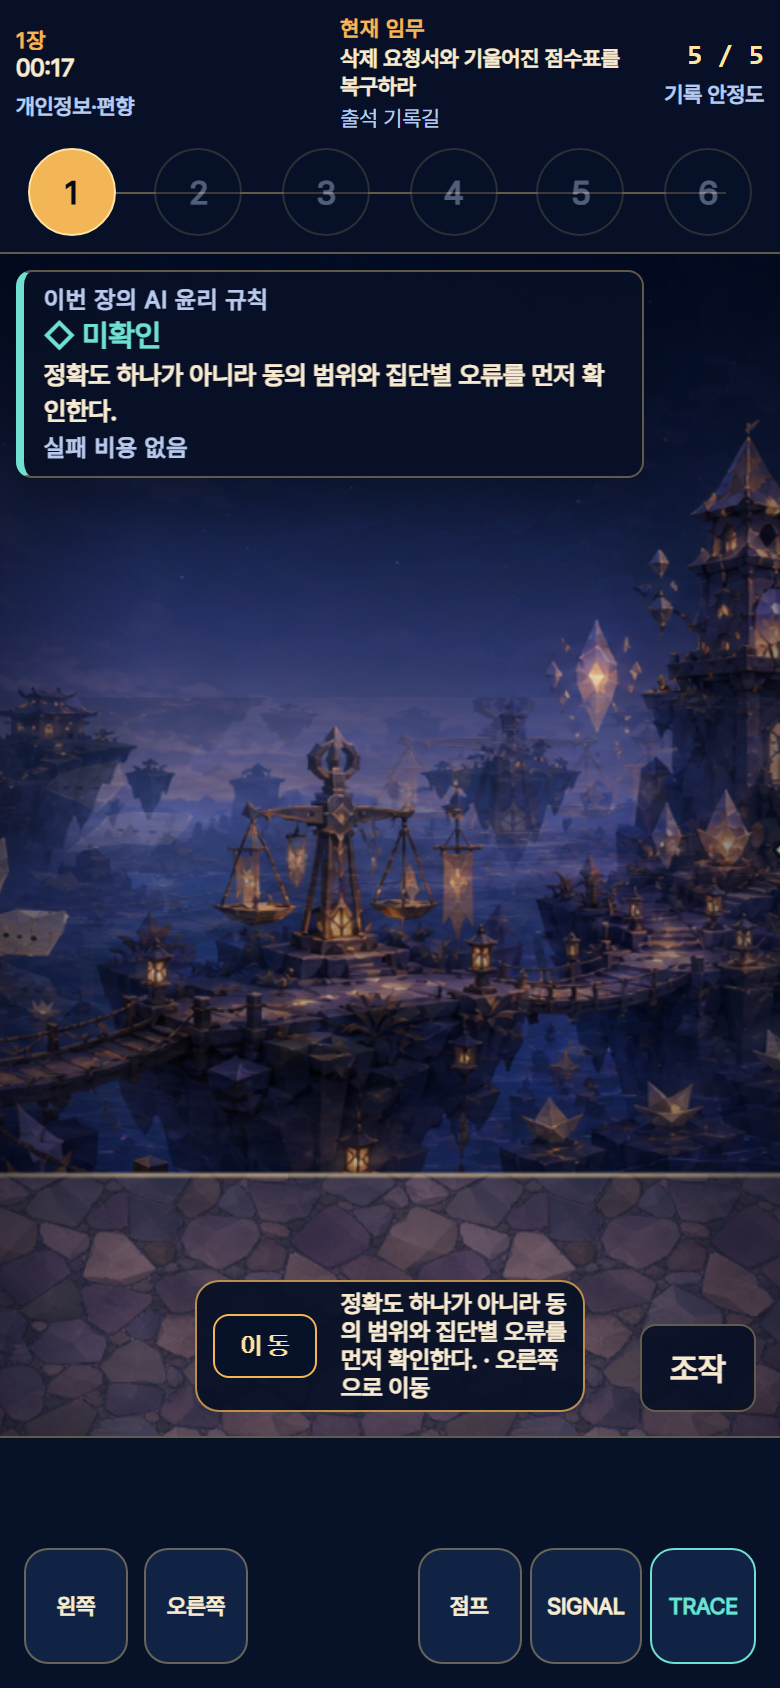
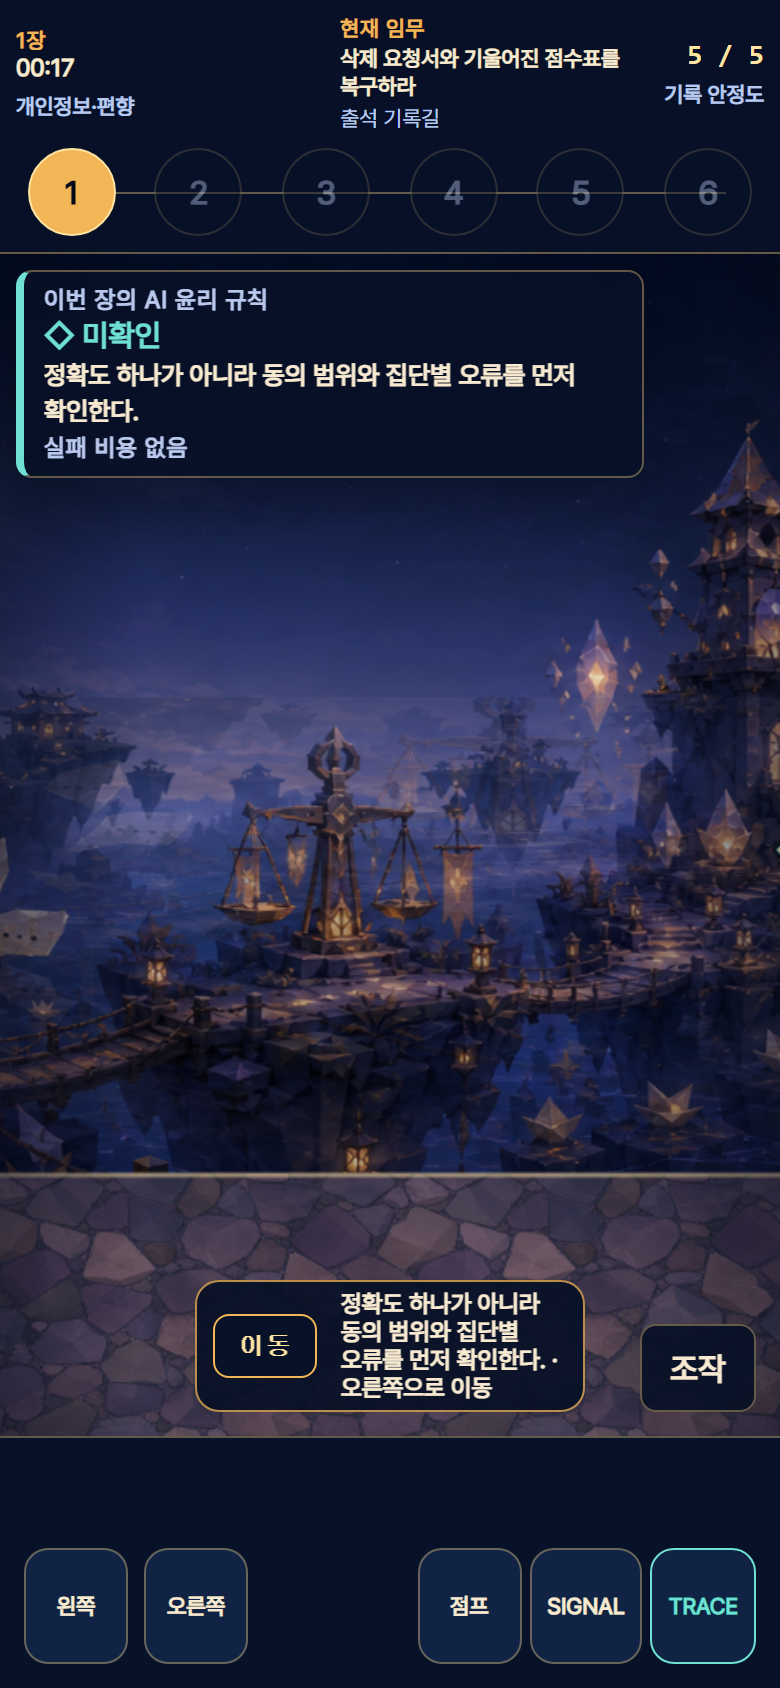
fix: 한국어 전투 안내 줄바꿈 보정

Changed region(s): [[0.4308, 0.7701, 0.7385, 0.8318], [0.0615, 0.2156, 0.1538, 0.2464], [0.7385, 0.2156, 0.7692, 0.2464]]

diff --git a/src/illustrated/style.css b/src/illustrated/style.css
@@ -453,6 +453,12 @@ a:focus-visible {
   transform: translateX(-50%);
 }
 
+.objective-prompt span {
+  min-width: 0;
+  overflow-wrap: break-word;
+  word-break: keep-all;
+}
+
 .objective-prompt kbd {
   min-width: 54px;
   min-height: 32px;
@@ -504,6 +510,8 @@ a:focus-visible {
   font-size: 0.8rem;
   font-weight: 700;
   line-height: 1.4;
+  overflow-wrap: break-word;
+  word-break: keep-all;
 }
 
 .ethics-rule.is-warning {
@@ -650,12 +658,16 @@ a:focus-visible {
 .report-list strong {
   color: var(--amber-bright);
   font-size: 0.75rem;
+  overflow-wrap: break-word;
+  word-break: keep-all;
 }
 
 .report-list span {
   color: var(--text-secondary);
   font-size: 0.75rem;
   line-height: 1.45;
+  overflow-wrap: break-word;
+  word-break: keep-all;
 }
 
 .help-button {
